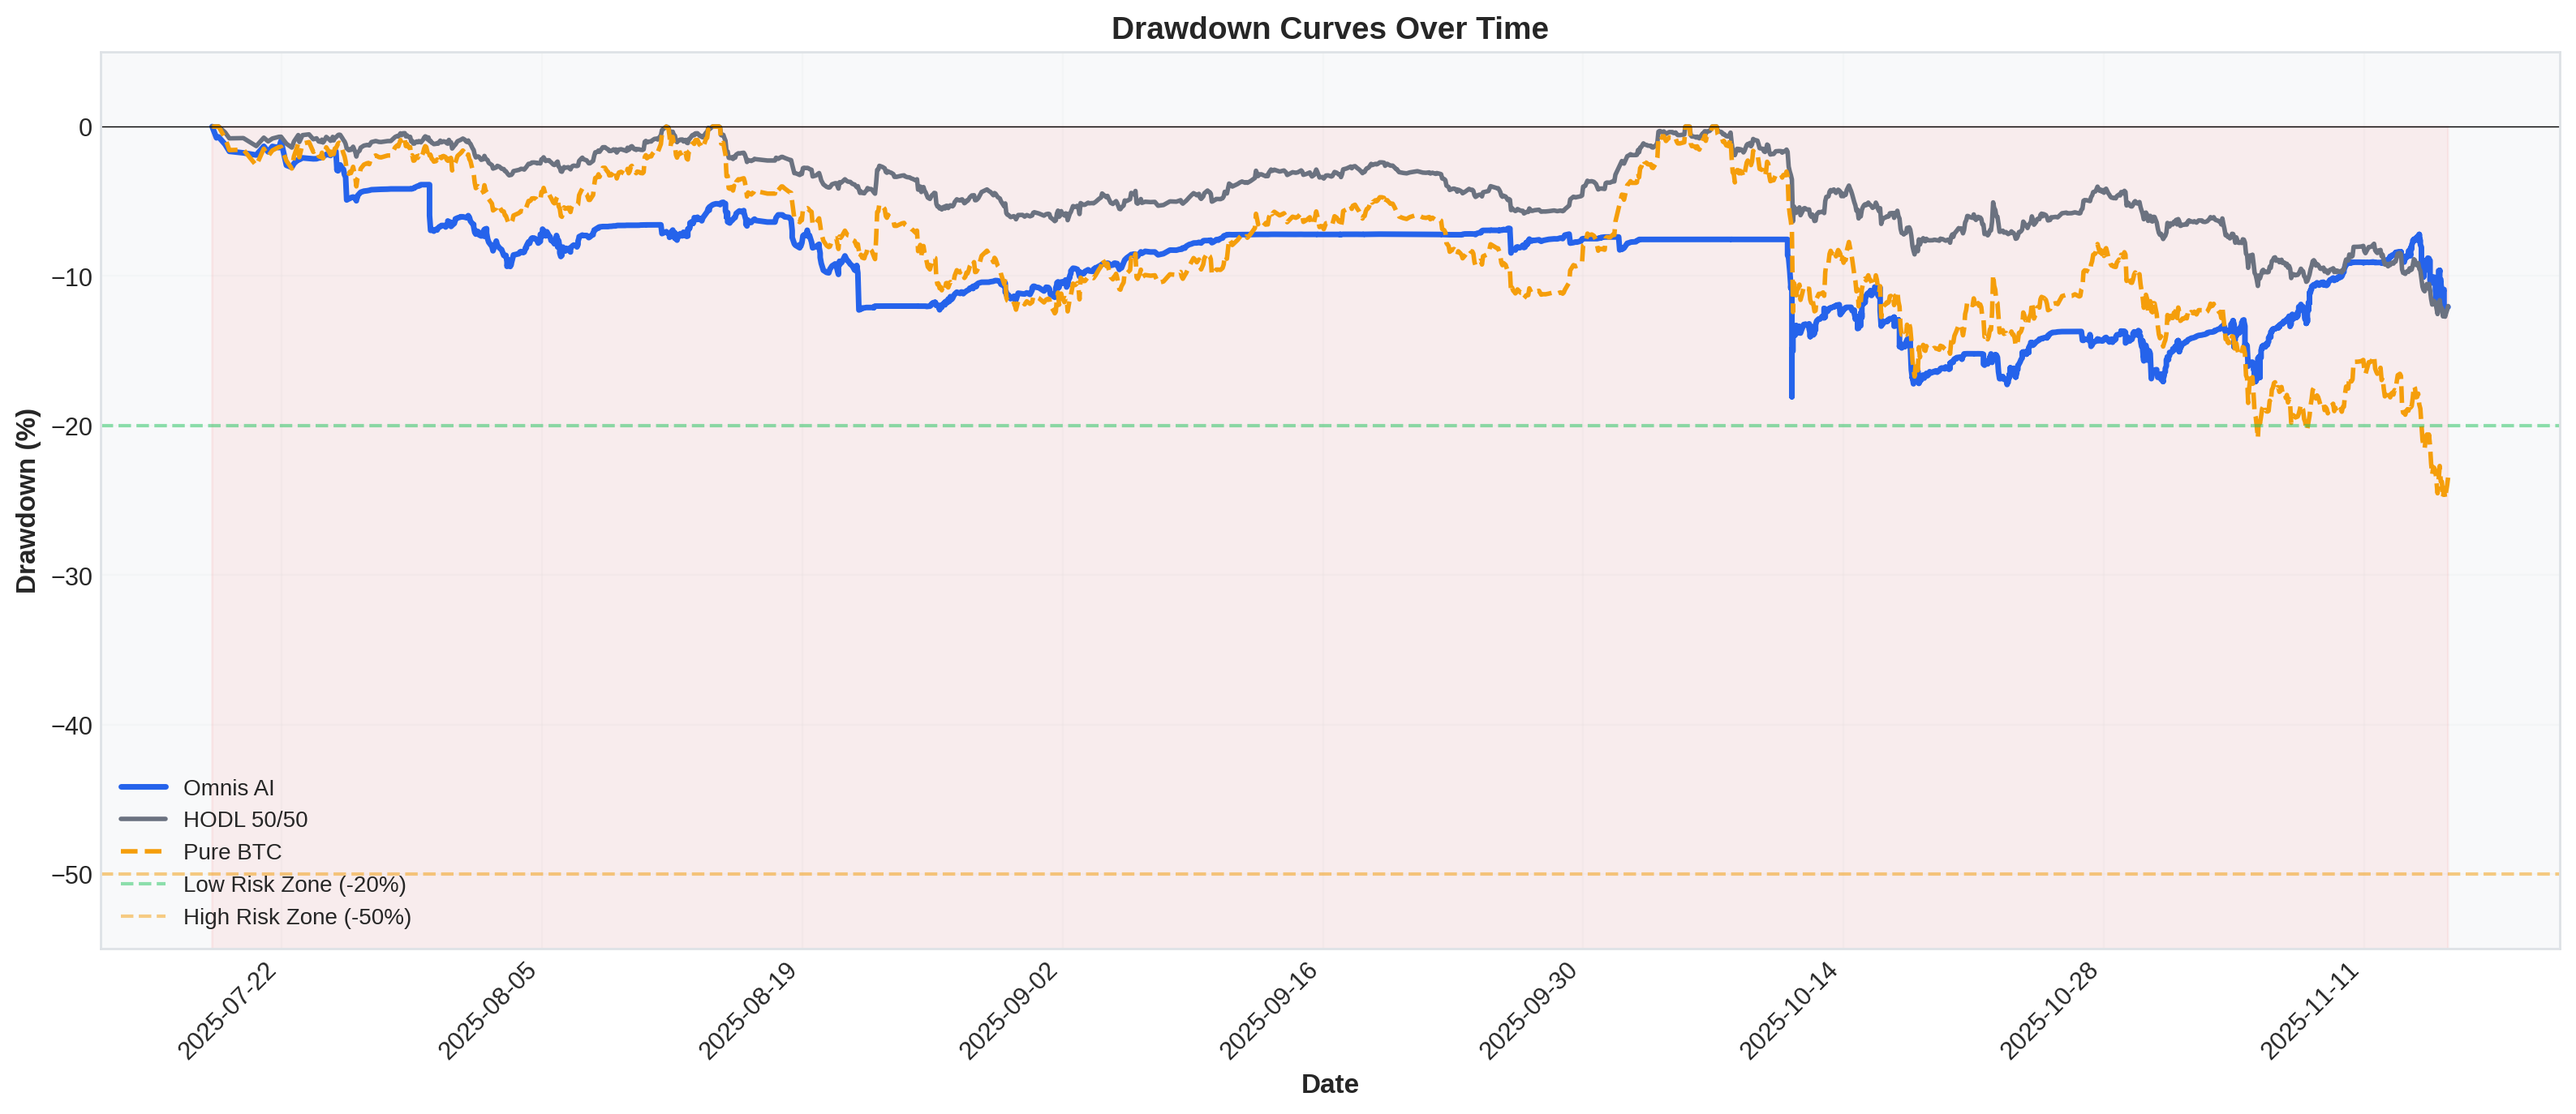
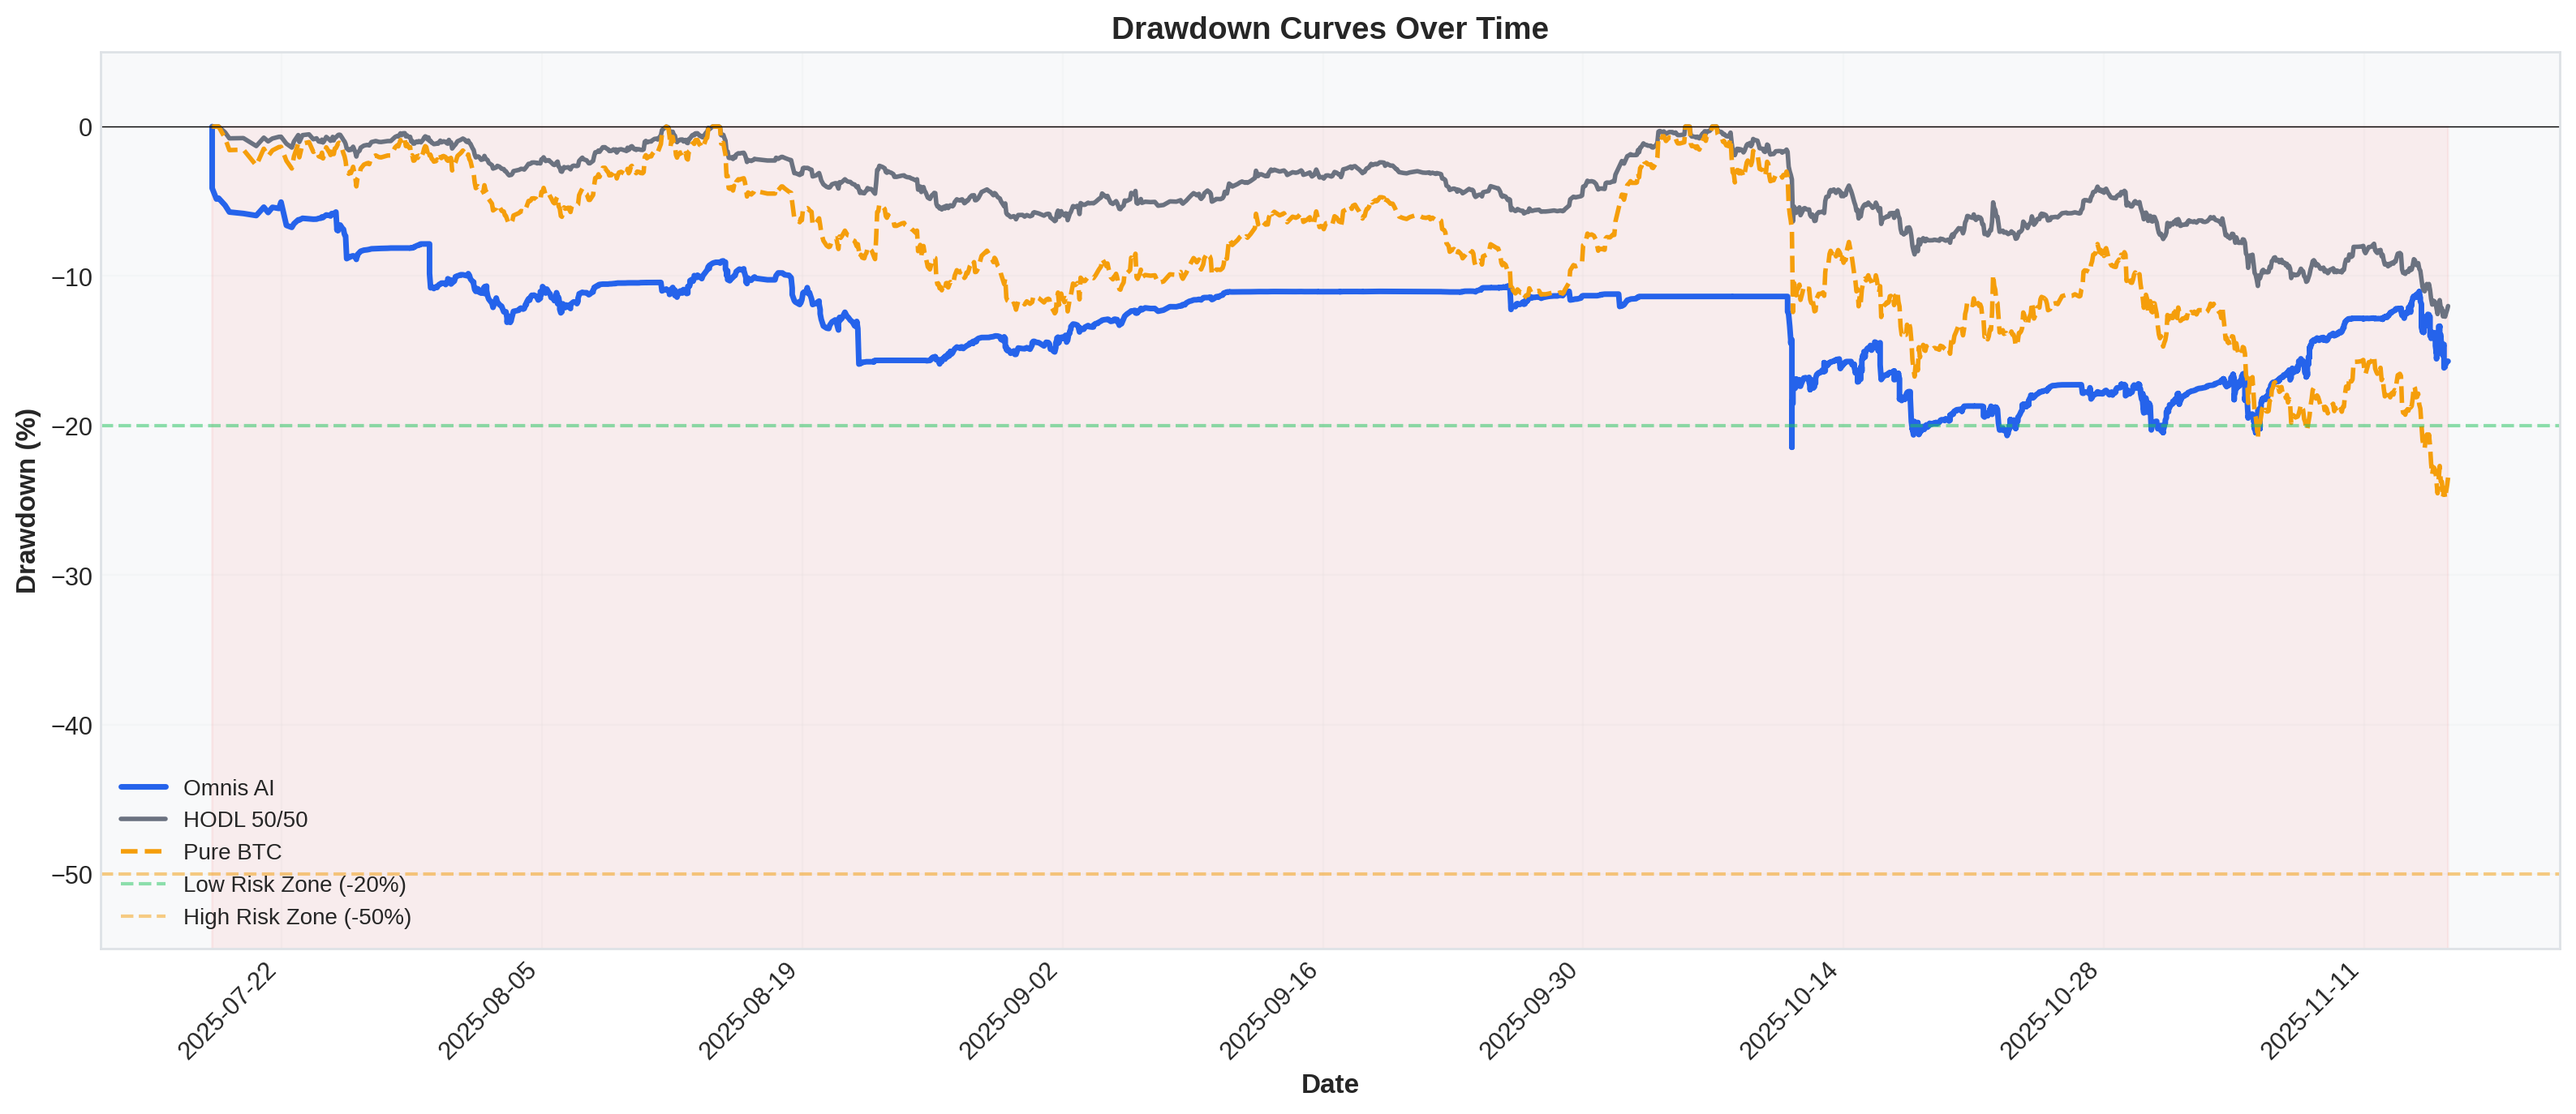
add new bt

diff --git a/src/generate_professional_charts.py b/src/generate_professional_charts.py
@@ -7,7 +7,7 @@
 import os
 import sys
 from decimal import Decimal
-from datetime import datetime
+from datetime import datetime, timedelta
 from typing import Dict, List, Tuple
 import json
 import csv
@@ -106,6 +106,13 @@ def generate_professional_charts(output_dir: str = "output/all_compare"):
     initial_capital = 10000
     first_price = price_history[0][1]
     last_price = price_history[-1][1]
+    
+    # 在 Omnis AI 歷史開頭插入 $10,000 起始點
+    if omnis_history and omnis_history[0][1] != initial_capital:
+        # 使用第一筆資料前1秒作為起始時間
+        start_time = omnis_history[0][0] - timedelta(seconds=1)
+        omnis_history.insert(0, (start_time, initial_capital))
+        print(f"  已插入 $10,000 起始點")
     
     initial_btc = (initial_capital / 2) / first_price
     initial_usdc = initial_capital / 2
